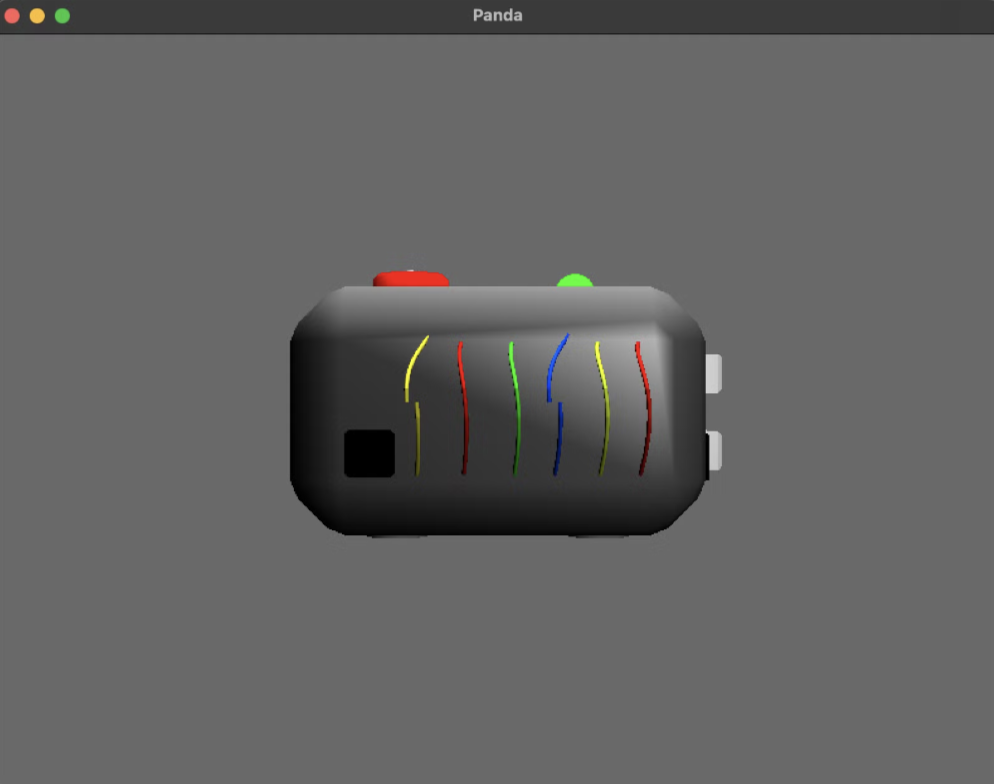
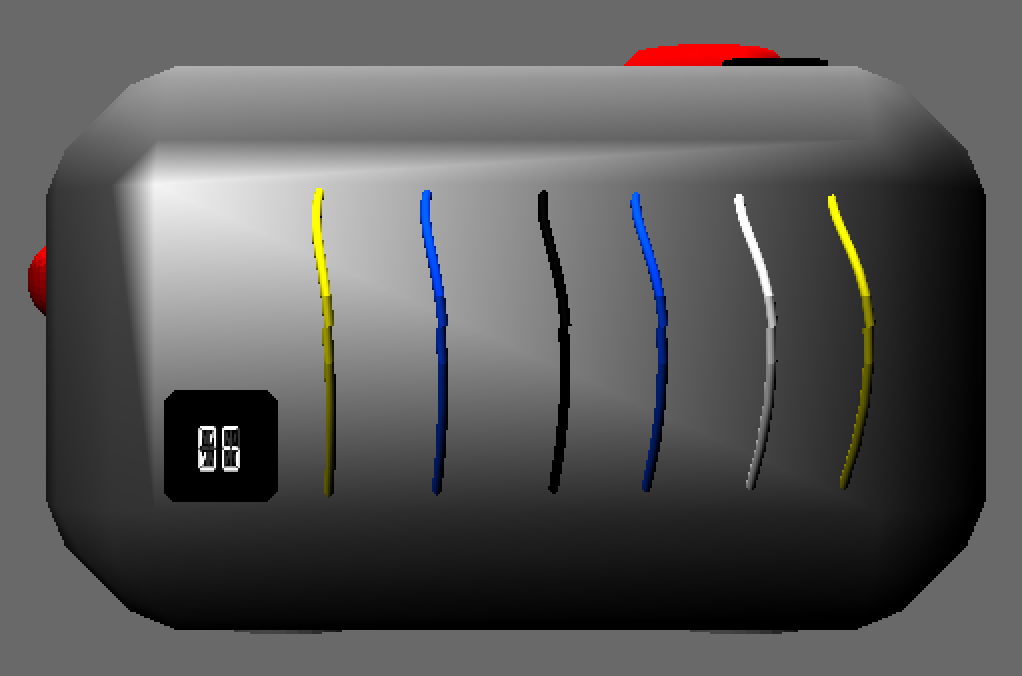
updated tutorial content to be more descriptive + new bomb photos

diff --git a/game/bomb.py b/game/bomb.py
@@ -19,8 +19,6 @@ from direct.gui.DirectDialog import DirectDialog
 from direct.gui.DirectLabel import DirectLabel
 from direct.gui.DirectButton import DirectButton
 from direct.stdpy.threading import Condition
-from direct.gui.DirectButton import DirectButton
-from direct.gui.OnscreenImage import OnscreenImage
 
 from panda3d.core import TextNode, PointLight, Spotlight, NodePath, TransparencyAttrib, CardMaker, MovieTexture
 from PIL import Image
@@ -114,19 +112,18 @@ class BombApp(ShowBase):
         self.pages = [
             "Welcome to Bomb Goes Boom! This is a cooperative, 2-player game designed to foster teamwork!",
             "Before continuing, make sure that the manual player has the bomb defusal manual open.",
-            "Now, we'll go through examples so that you, the defusal player, know how all the controls for our game.",
-            "Before starting the game, place the bomb upright so the side with the timer is facing up. The GUI should show the corresponding page.",
-            "To start the game, press the button that is underneath the timer. This should start the timer both on the bomb and on the GUI.",
-            "Now that the timer has started, your are ready to play some games!",
-            "In the WIRE CUTTING GAME, your goal is to cut the correct wire. Carefully observe the wires displayed on the GUI, then relay that information to your teammate. They will then give you instructions on the correct button to press.",
-            "In the SEQUENCING GAME, your goal is enter four symbols in the correct order. Carefully observe what symbols appear on the GUI, and relay that information to your teammate. They will give you instructions on what order to press the buttons in.",
-            "In the SIMON SAYS GAME, your goal is to move the bomb around the screen in a correct sequence. Observe what colors appear on the GUI, and relay that information to the manual player. They will give instructions on how to move the bomb.",
-            "In the BINARY SPEECH GAME, your goal is speak a correct code word into the microphone. Relay the big-endian number, to the manual player, and they will give instructions on what to say in the microphone.",
-            "After the main four games are completed, you can move on to the final game, the DEFUSAL GAME.",
-            "In the DEFUSAL GAME, your goal is to defuse the bomb at the correct time. Get instructions from the manual player on when you are allowed to defuse the bomb.",
-            "To SWITCH BETWEEN GAMES, rotate the bomb to a different side. Doing this will also rotate the GUI to the corresponding side.",
+            "Also, note that the defusal player is not allowed to see the bomb manual, and the manual player is not allowed to see the bomb.",
+            "Now, we'll go through examples so that you, the defusal player, know all the controls for our game.",
+            "Firstly, to SWITCH BETWEEN GAMES, rotate the bomb to a different side. Doing this will also rotate the GUI to the corresponding side.",
+            "Rotate this side up to activate the WIRE CUTTING GAME. In the WIRE CUTTING GAME, there are 6 buttons that correspond to the wires on the GUI. After working with your partner, push a button to cut a wire you think is correct.",
+            "Rotate this side up to activate the SEQUENCING GAME. In the SEQUENCING GAME, there are 4 symbols displayed. After working with your partner, press the 4 buttons in the order you think is correct.",
+            "Rotate this side up to activate the SIMON SAYS GAME. Also, make sure that the green side of the bomb is facing the defusing player's computer camera. ==>",
+            "In the SIMON SAYS GAME, your goal is to move the green side of the bomb around the edges of the screen in a correct sequence. After working with your partner, slide the bomb in the order you think is correct.",
+            "Rotate this side up to activate the LED TIMER GAME. In the LED TIMER GAME, your goal is to press the button at the right time. After working with your partner, press and release the button at times you think are correct.",
+            "Rotate this side up to activate the BINARY SPEECH GAME. In the BINARY SPEECH GAME, a big-endian number is displayed on the GUI. After working with your partner, speak a code word into the mic that you think is correct.",
+            "Once all 5 games are completed, the bomb will defuse automatically. If the bomb defuses before the timer ends, you win!"
         ]
-        
+
         # Main tutorial text node
         self.popupTextNode = TextNode('popupTextNode')
         self.popupTextNode.setWordwrap(35)
@@ -377,14 +374,22 @@ class BombApp(ShowBase):
         self.prevButton.show() if self.currentPage > 0 else self.prevButton.hide()
         self.nextButton.show() if self.currentPage < len(self.pages) - 1 else self.nextButton.hide()
 
-        if self.currentPage < 3:
-            image_path1 = 'assets/images/bomb.png'
+        if self.currentPage < 4 or self.currentPage == 11:
+            self.stopTutorialVideo()
+            if self.currentPage == 0 or self.currentPage == 3:
+                image_path1 = 'assets/images/bomb.png'
+            elif self.currentPage == 1:
+                image_path1 = 'assets/images/bomb_manual.png'
+            elif self.currentPage == 2:
+                image_path1 = 'assets/images/concept_refresher.png'
+            elif self.currentPage == 11:
+                image_path1 = 'assets/images/checkboxes.png'
             self.tutorialImage1.setImage(image_path1)
             self.tutorialImage1.setPos(0, 0, 0.2)
             self.adjust_image_aspect(self.tutorialImage1, image_path1, self.max_image_width, self.max_image_height)
             self.tutorialImage1.show()
             self.tutorialImage2.hide()
-        elif self.currentPage == 12:
+        elif self.currentPage == 4:
             self.tutorialImage1.hide()
             self.tutorialImage2.hide()
             self.playTutorialVideo('assets/videos/bomb_rotation.mp4')
@@ -393,24 +398,28 @@ class BombApp(ShowBase):
             image_path1 = ""
             image_path2 = ""
 
-            if self.currentPage == 3 or self.currentPage == 10 or self.currentPage == 11:
-                image_path1 = 'assets/images/bomb_arduino1.png'
-                image_path2 = 'assets/images/gui_timer.png'
-            elif self.currentPage == 4:
-                image_path1 = 'assets/images/bomb_start_button.png'
-                image_path2 = 'assets/images/gui_timer.png'
-            elif self.currentPage == 6:
+            #if self.currentPage == 3 or self.currentPage == 10 or self.currentPage == 11:
+            #    image_path1 = 'assets/images/bomb_arduino1.png'
+            #    image_path2 = 'assets/images/gui_timer.png'
+
+            if self.currentPage == 5:
                 image_path1 = 'assets/images/bomb_wires.png'
                 image_path2 = 'assets/images/gui_wires.png'
-            elif self.currentPage == 7:
+            elif self.currentPage == 6:
                 image_path1 = 'assets/images/bomb_sequence.png'
                 image_path2 = 'assets/images/gui_sequence.png'
+            elif self.currentPage == 7:
+                image_path1 = 'assets/images/bomb_localization1.png'
+                image_path2 = 'assets/images/gui_localization.png'
             elif self.currentPage == 8:
-                image_path1 = 'assets/images/bomb_localization.png'
+                image_path1 = 'assets/images/bomb_localization2.png'
                 image_path2 = 'assets/images/gui_localization.png'
             elif self.currentPage == 9:
+                image_path1 = 'assets/images/bomb_arduino1.png'
+                image_path2 = 'assets/images/gui_timer.png'
+            elif self.currentPage == 10:
                 image_path1 = 'assets/images/bomb_speech.png'
-                image_path2 = 'assets/images/gui_speech.png'
+                image_path2 = 'assets/images/gui_speech.png'            
 
             if image_path1:
                 self.tutorialImage1.setImage(image_path1)
